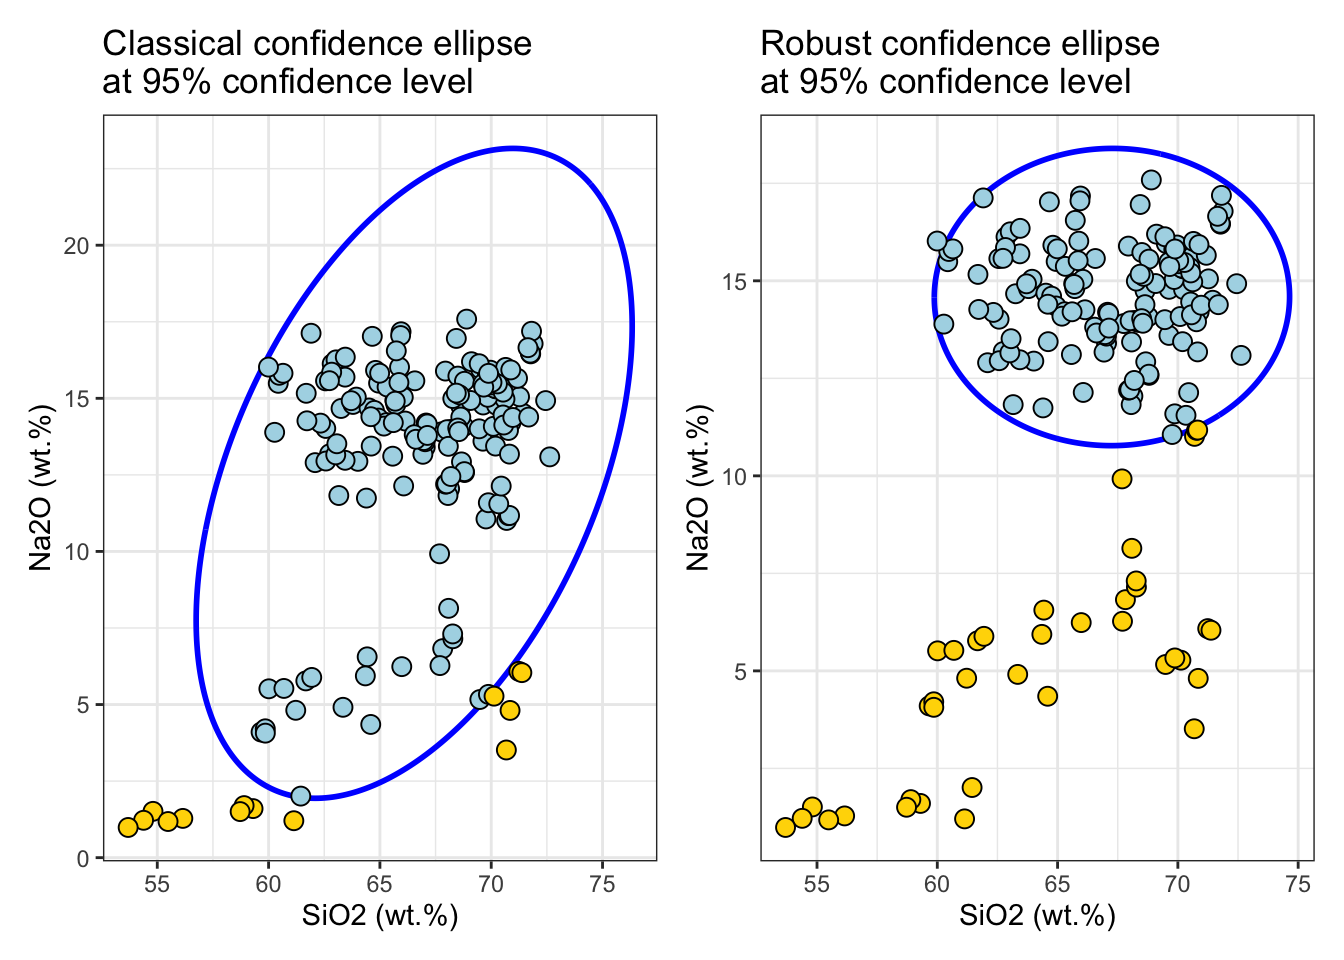
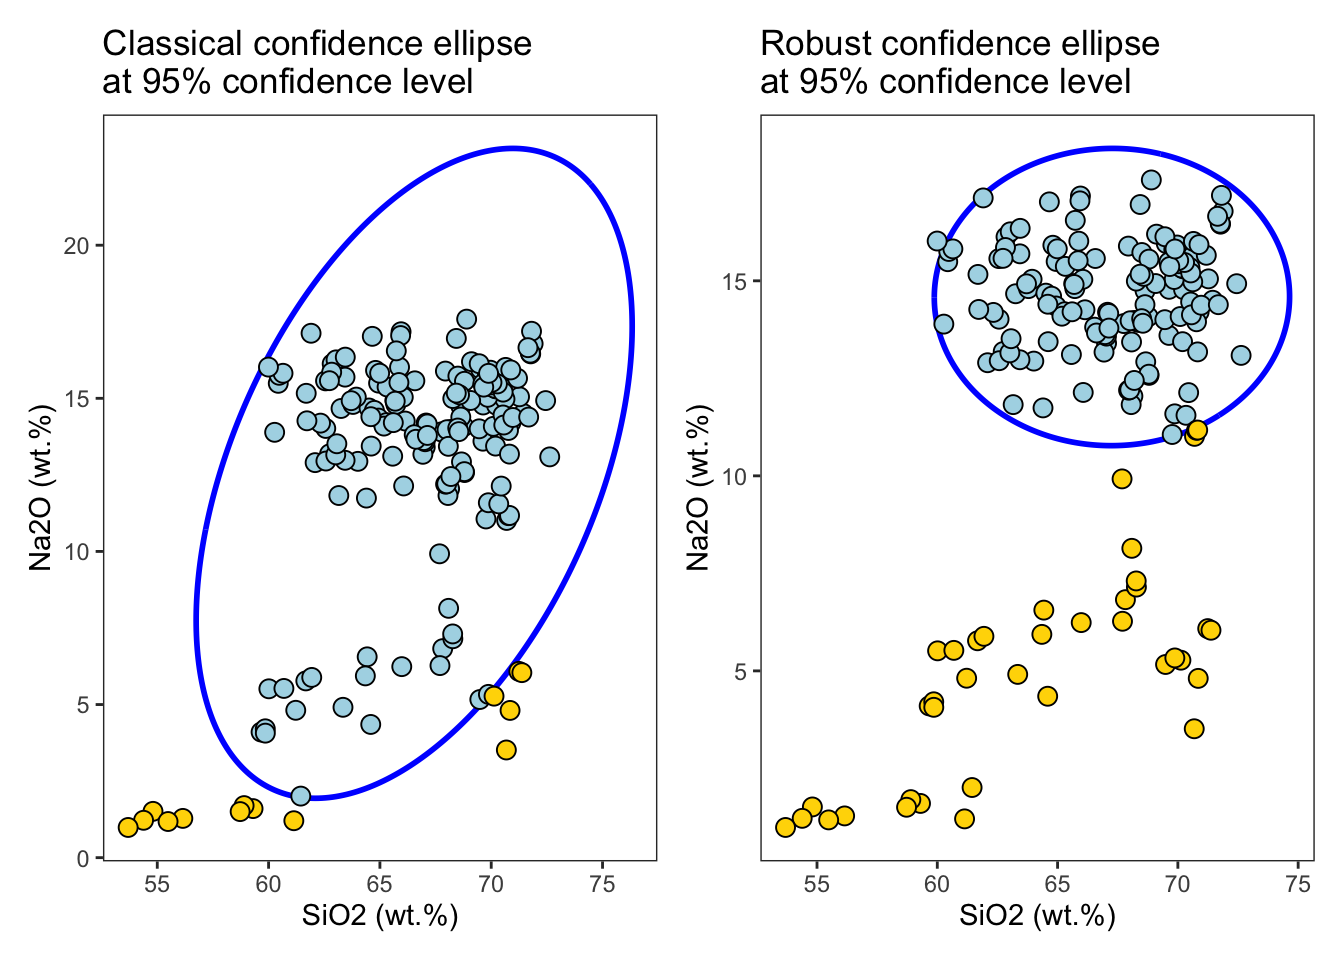
Updates

diff --git a/README.md b/README.md
@@ -2,7 +2,7 @@
 <!-- README.md is generated from README.Rmd. Please edit that file -->
 <!-- badges: start -->
 
-# ConfidenceEllipse <img src="man/figures/logo.png" align="right" height="159" alt="" />
+# <img src="man/figures/logo.png" align="right" height="159" alt="ConfidenceEllipse package logo" />
 
 [![R-CMD-check](https://github.com/ChristianGoueguel/ConfidenceEllipse/actions/workflows/R-CMD-check.yaml/badge.svg)](https://github.com/ChristianGoueguel/ConfidenceEllipse/actions/workflows/R-CMD-check.yaml)
 [![Project Status: Active – The project has reached a stable, usable
@@ -18,8 +18,6 @@ MIT](https://img.shields.io/badge/License-MIT-blue.svg)](https://opensource.org/
 [![](https://cranlogs.r-pkg.org/badges/grand-total/ConfidenceEllipse)](https://cran.r-project.org/package=ConfidenceEllipse)
 [![CRAN
 status](https://www.r-pkg.org/badges/version/ConfidenceEllipse)](https://CRAN.R-project.org/package=ConfidenceEllipse)
-[![HitCount](https://hits.dwyl.com/ChristianGoueguel/ConfidenceEllipse.svg?style=flat)](http://hits.dwyl.com/ChristianGoueguel/ConfidenceEllipse)
-
 <!-- badges: end -->
 
 The `ConfidenceEllipse` package computes the coordinate points of
@@ -85,7 +83,7 @@ glass %>% glimpse()
 #> $ SiO2      <dbl> 67.752, 67.076, 63.254, 63.790, 68.768, 69.628, 64.012, 70.6…
 #> $ P2O5      <dbl> 0.884, 0.938, 0.988, 1.200, 0.682, 0.698, 0.966, 0.210, 0.75…
 #> $ SO3       <dbl> 0.052, 0.024, 0.064, 0.115, 0.070, 0.038, 0.046, 0.310, 0.03…
-#> $ Cl2O      <dbl> 0.936, 0.966, 0.886, 0.988, 0.966, 0.908, 0.896, 0.676, 0.93…
+#> $ Cl        <dbl> 0.936, 0.966, 0.886, 0.988, 0.966, 0.908, 0.896, 0.676, 0.93…
 #> $ K2O       <dbl> 3.044, 3.396, 2.828, 2.878, 2.402, 3.196, 2.526, 2.326, 2.32…
 #> $ CaO       <dbl> 8.784, 8.636, 11.088, 10.833, 8.808, 6.160, 12.982, 6.324, 9…
 #> $ MnO       <dbl> 0.674, 0.698, 1.240, 0.978, 0.310, 1.170, 0.874, 0.214, 0.60…
@@ -96,7 +94,7 @@ glass %>% glimpse()
 
 ### Confidence Region
 
-#### Classical and robust confidence ellipse
+#### Classical and robust confidence ellipses
 
 First, the `confidence_ellipse` function is used to compute coordinate
 points of the confidence ellipse and then the ellipse is plotted on a
@@ -134,7 +132,10 @@ plot1 <-
   geom_point(data = glass %>% mutate(md = MDsquared) %>% filter(md > cutoff), aes(x = SiO2, y = Na2O), shape = 21L, color = "black", fill = "gold", size = 3L) +
   labs(x = "SiO2 (wt.%)", y = "Na2O (wt.%)", title = "Classical confidence ellipse\nat 95% confidence level") +
   theme_bw() +
-  theme(legend.position = "none")
+  theme(
+    panel.grid = element_blank(),
+    legend.position = "none"
+    )
 ```
 
 ``` r
@@ -159,7 +160,10 @@ plot2 <-
   geom_point(data = glass %>% mutate(md = rob_MDsquared) %>% filter(md > cutoff), aes(x = SiO2, y = Na2O), shape = 21L, color = "black", fill = "gold", size = 3L) +
   labs(x = "SiO2 (wt.%)", y = "Na2O (wt.%)", title = "Robust confidence ellipse\nat 95% confidence level") +
   theme_bw() +
-  theme(legend.position = "none")
+  theme(
+    panel.grid = element_blank(),
+    legend.position = "none"
+    )
 ```
 
 ``` r
@@ -204,7 +208,10 @@ ggplot() +
   scale_color_brewer(palette = "Set1", direction = 1) +
   labs(x = "PC1", y = "PC2", title = "Principal component analysis") +
   theme_bw() +
-  theme(legend.position = "none")
+  theme(
+    panel.grid = element_blank(),
+    legend.position = "none"
+    )
 ```
 
 <img src="man/figures/README-unnamed-chunk-16-1.png" width="100%" />
@@ -251,4 +258,4 @@ rgl::points3d(
 rgl::view3d(theta = 260, phi = 30, fov = 60, zoom = .85)
 ```
 
-<img src="man/figures/README-unnamed-chunk-19-1-rgl.png" width="100%" />
+<img src="man/figures/README-unnamed-chunk-19-1.-rgl.png" width="100%" />

diff --git a/NEWS.md b/NEWS.md
@@ -1,7 +1,40 @@
 # ConfidenceEllipse 1.1.0
+* Added `distribution` parameter to the `confidence_ellipse()` and `confidence_ellipsoid` 
+functions allowing users to choose between `"normal"` and `"hotelling"` (Hotelling's T²) distributions 
+for ellipse calculation.
+* Enhanced statistical rigor: Hotelling's T² distribution now properly accounts 
+for parameter estimation uncertainty in small sample sizes.
+* Updated documentation with detailed explanations of distribution choices and robust methods.
+* Added recommendations for parameter selection based on sample size and data characteristics.
+* Change name of `transform_data` helper function to `transform_2d` and `transform_3d` for clarity and consistency.
 
 # ConfidenceEllipse 1.0.0
+* Added `robust` parameter to the `confidence_ellipse()` and `confidence_ellipsoid` functions enabling robust 
+estimation methods using 1-step M-estimator with biweight psi function for location 
+and Minimum Covariance Determinant (MCD) estimator for scale.
+* Improved handling of outliers and non-normal data through robust estimation options.
+* Enhanced documentation with examples demonstrating the use of robust methods.
+* CRAN release with comprehensive vignettes and examples.
+
+# ConfidenceEllipse 0.2.1
+* Improved code of `transform_data` helper function.
+
+# ConfidenceEllipse 0.2.0
+* Added `transform_data` helper function to streamline data transformation processes.
+
+# ConfidenceEllipse 0.1.4
+* Modified package logo to include a more visually appealing design.
+* Updated package description to better reflect the functionality and features of the package.
+
+# ConfidenceEllipse 0.1.3
+* Cleaned up code and improved performance of `confidence_ellipse()` and `confidence_ellipsoid()` functions.
+
+# ConfidenceEllipse 0.1.2
+* Introduced `confidence_ellipse()` function for 2D confidence ellipse calculations.
+* Introduced `confidence_ellipsoid()` function for 3D confidence ellipsoid calculations.
+
+# ConfidenceEllipse 0.1.1 
+* Fixed bug in `confidence_ellipse()` function where the `conf_level` parameter was not being correctly applied.
 
 # ConfidenceEllipse 0.1.0
-
-* Initial CRAN submission.
+* Initial release of the ConfidenceEllipse package.
